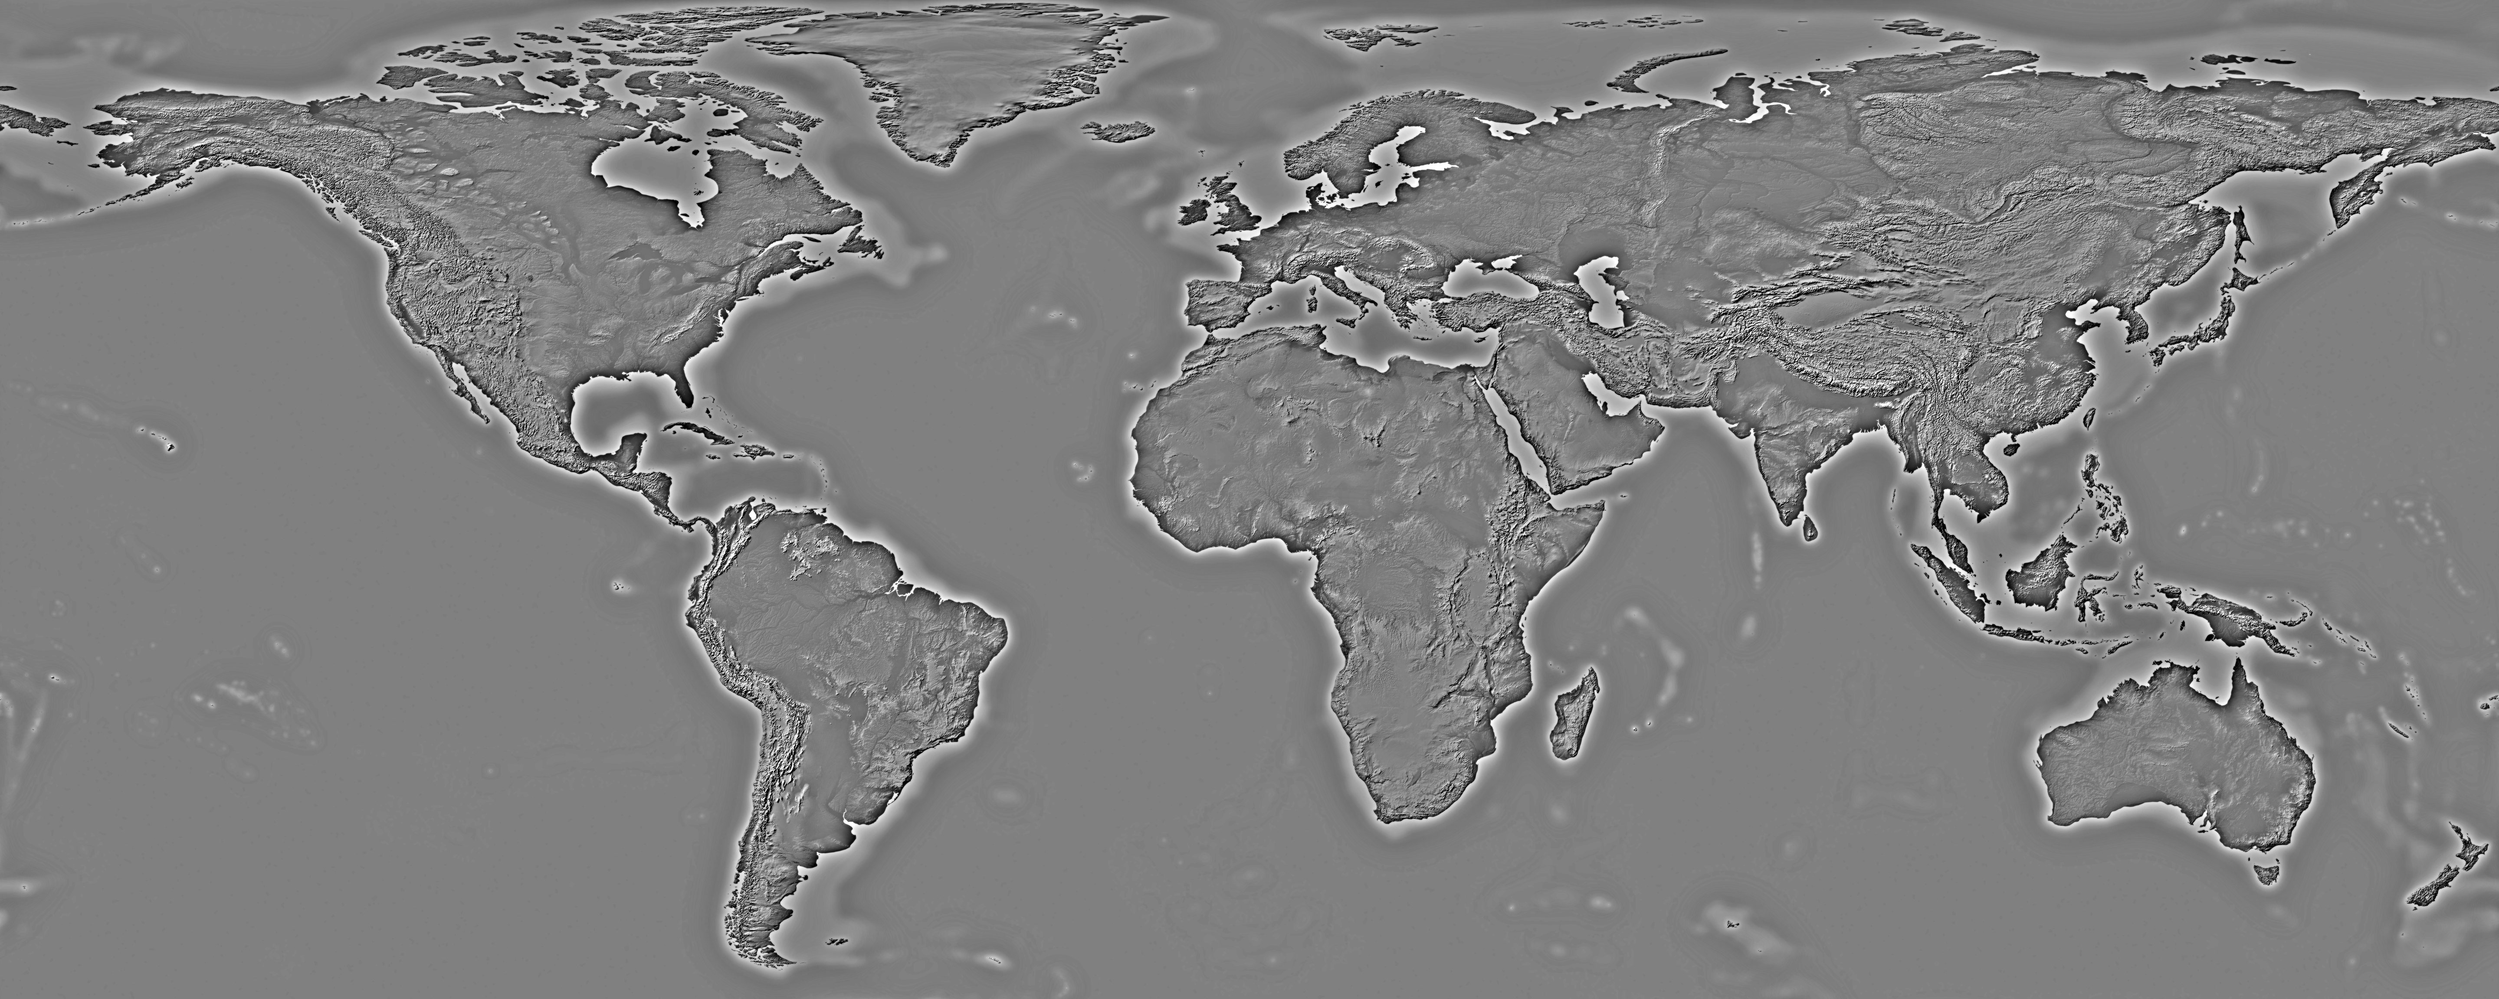
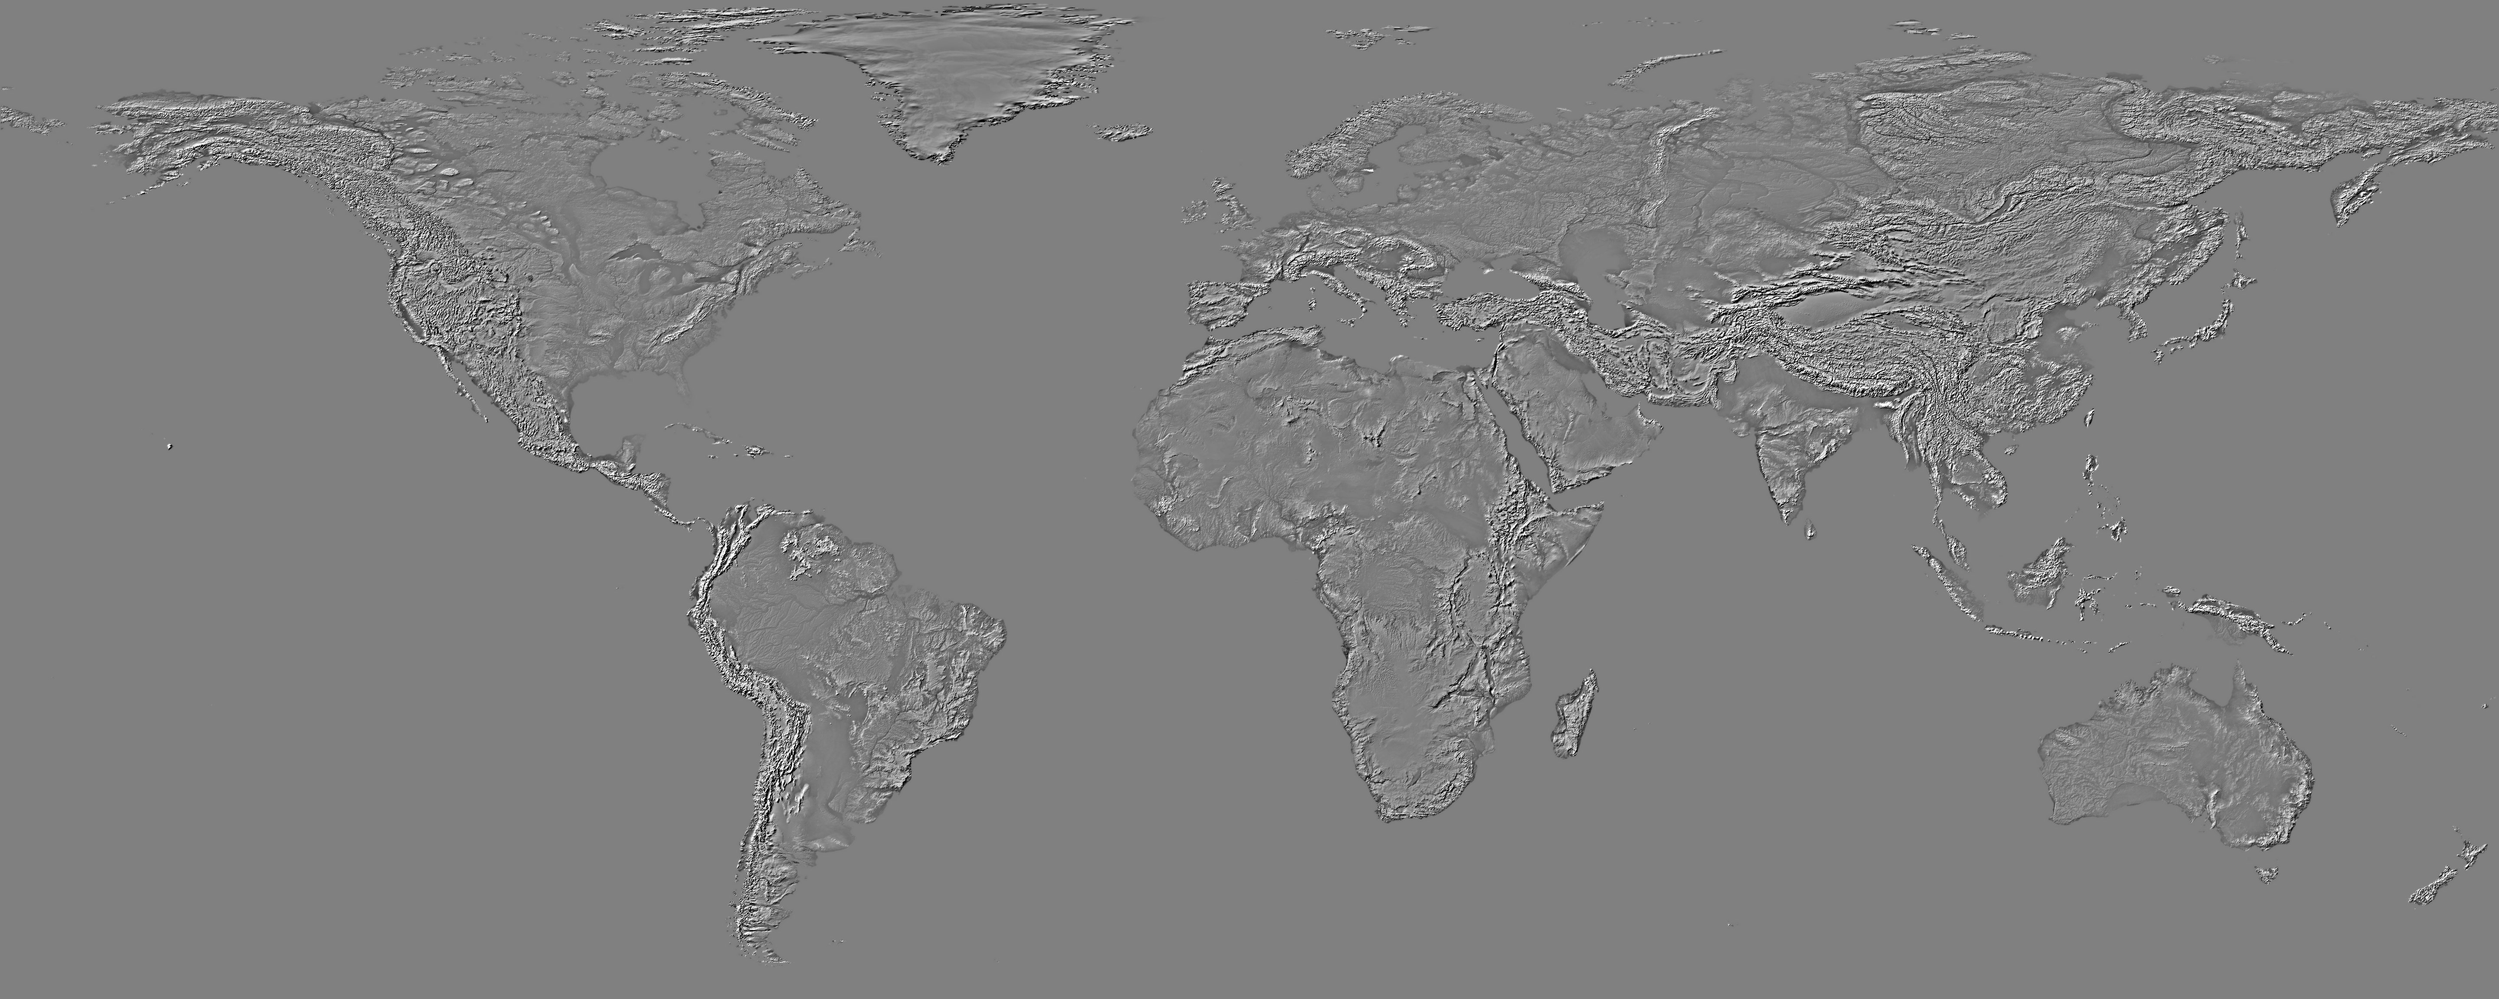
Make the live map match the mockup's 3D clay style
Fix the relief texture never drawing when a view crosses the antimeridian,
rebuild the terrain texture from a real land mask (no coastal streaks), and
add a tileable crumpled-clay detail layer, extruded slabs with side walls,
a lit coastline rim and stronger terrain on raised regions. Fit the
projection and view extents to the mockup, add glassy markers that scale
with the map, and an elliptical vignette for the overview card.

Claude-Session: https://claude.ai/code/session_01VKn5XMieuVs2FJu58rVKFw

diff --git a/map.js b/map.js
@@ -12,17 +12,31 @@
 
   // Miller cylindrical: x is linear in longitude and y depends only on latitude,
   // so the equirectangular relief texture can be reprojected one row at a time.
-  function millerRaw(l, p) { return [l, 1.25 * Math.log(Math.tan(Math.PI / 4 + 0.4 * p))]; }
-  millerRaw.invert = (x, y) => [x, 2.5 * Math.atan(Math.exp(0.8 * y)) - 0.625 * Math.PI];
+  // Generalised Miller: k = 0.8 is classic Miller, k = 1 is Mercator.
+  // `verticalStretch` exaggerates north–south like the reference artwork.
+  const K = cfg.projectionK || 0.8, VS = cfg.verticalStretch || 1;
+  function millerRaw(l, p) { return [l, VS * Math.log(Math.tan(Math.PI / 4 + K * p / 2)) / K]; }
+  millerRaw.invert = (x, y) => [x, (2 / K) * (Math.atan(Math.exp(K * y / VS)) - Math.PI / 4)];
 
   // country -> region lookup
   const regionOf = new Map();
   for (const r of cfg.regions) for (const c of r.countries) regionOf.set(c, r);
   const regionFor = f => regionOf.get(f.id) || regionOf.get(f.properties.name) || null;
 
-  const tex = new Image();
-  const texReady = new Promise(res => { tex.onload = res; tex.onerror = res; });
-  tex.src = cfg.reliefTexture.src;
+  // merged outlines (no internal borders) for the lit coastline rim
+  const geoms = topo.objects.countries.geometries;
+  const geomRegion = g => regionOf.get(g.id) || regionOf.get(g.properties && g.properties.name) || null;
+  const outlineCache = new Map();
+  const outline = keep => {
+    const key = keep.key;
+    if (!outlineCache.has(key)) outlineCache.set(key, topojson.merge(topo, geoms.filter(g => keep(geomRegion(g)))));
+    return outlineCache.get(key);
+  };
+
+  const loadImg = src => { const im = new Image(); const p = new Promise(r => { im.onload = r; im.onerror = r; }); im.src = src; return [im, p]; };
+  const [tex, texP] = loadImg(cfg.reliefTexture.src);
+  const [crumple, crumpleP] = cfg.crumple ? loadImg(cfg.crumple.src) : [null, Promise.resolve()];
+  const texReady = Promise.all([texP, crumpleP]);
 
   const layer = (w, h) => { const c = document.createElement('canvas'); c.width = w; c.height = h; return c; };
 
@@ -97,26 +111,21 @@
       const raisedIds = new Set(v.raised || cfg.regions.filter(r => r.raised).map(r => r.id));
 
       // flat land (everything not raised)
-      const base = this.landLayer(projD, W, H, relief, f => !raisedIds.has(regionFor(f)?.id));
-      ctx.save();
-      ctx.shadowColor = 'rgba(38,58,34,.30)';
-      ctx.shadowBlur = 10 * dpr; ctx.shadowOffsetY = 5 * dpr;
-      ctx.drawImage(base, 0, 0);
-      ctx.restore();
+      const baseKeep = Object.assign(r => !raisedIds.has(r?.id), { key: 'base:' + [...raisedIds].join() });
+      const base = this.landLayer(projD, W, H, relief, f => !raisedIds.has(regionFor(f)?.id), null, outline(baseKeep));
+      this.slab(ctx, base, (v.depth ?? cfg.depth ?? 3) * dpr, 0, 'rgba(38,58,34,.32)', 10 * dpr, 6 * dpr);
 
       // raised regions: deeper drop shadow, soft glow in the region's colour, lifted a few px
       for (const r of cfg.regions) {
         if (!raisedIds.has(r.id)) continue;
         const lift = 4 * dpr;
-        const img = this.landLayer(projD, W, H, relief, f => regionFor(f) === r, r);
+        const img = this.landLayer(projD, W, H, relief, f => regionFor(f) === r, r, outline(Object.assign(x => x === r, { key: r.id })));
         ctx.save();
-        ctx.shadowColor = 'rgba(30,30,30,.38)';
-        ctx.shadowBlur = 18 * dpr; ctx.shadowOffsetY = 12 * dpr;
-        ctx.drawImage(img, 0, -lift);
-        ctx.shadowColor = hexA(r.color, .55);
-        ctx.shadowBlur = 14 * dpr; ctx.shadowOffsetY = 0;
+        ctx.shadowColor = hexA(r.glow || r.color, .5);
+        ctx.shadowBlur = 16 * dpr;
         ctx.drawImage(img, 0, -lift);
         ctx.restore();
+        this.slab(ctx, img, (cfg.raisedDepth ?? 7) * dpr, -lift, 'rgba(25,25,25,.42)', 22 * dpr, 14 * dpr);
       }
 
       // soft fades into the card background
@@ -125,16 +134,39 @@
       ctx.globalCompositeOperation = 'destination-out';
       const edge = (x0, y0, x1, y1, amt) => {
         const g = ctx.createLinearGradient(x0, y0, x1, y1);
-        g.addColorStop(0, 'rgba(0,0,0,.92)'); g.addColorStop(1, 'rgba(0,0,0,0)');
+        g.addColorStop(0, 'rgba(0,0,0,.94)'); g.addColorStop(.45, 'rgba(0,0,0,.6)'); g.addColorStop(1, 'rgba(0,0,0,0)');
         ctx.fillStyle = g; ctx.fillRect(0, 0, W, H);
       };
       if (fade.left) edge(0, 0, W * fade.left, 0);
       if (fade.right) edge(W, 0, W * (1 - fade.right), 0);
       if (fade.top) edge(0, 0, 0, H * fade.top);
       if (fade.bottom) edge(0, H, 0, H * (1 - fade.bottom));
+      if (fade.vignette) {
+        // elliptical fade: fully kept inside `inner`, gone by the edge
+        const { inner = 0.55, cx = 0.5, cy = 0.5 } = fade.vignette;
+        ctx.save();
+        ctx.translate(W * cx, H * cy); ctx.scale(W / 2, H / 2);
+        const g = ctx.createRadialGradient(0, 0, inner, 0, 0, 1.08);
+        g.addColorStop(0, 'rgba(0,0,0,0)'); g.addColorStop(1, 'rgba(0,0,0,1)');
+        ctx.fillStyle = g; ctx.fillRect(-2, -2, 4, 4);
+        ctx.restore();
+      }
       ctx.restore();
 
       this.placeMarkers(proj, v, w, h);
+    }
+
+    // A landmass drawn as a raised slab: drop shadow, darker side wall, lit top
+    slab(ctx, img, depth, lift, shadow, blur, offY) {
+      ctx.save();
+      ctx.shadowColor = shadow; ctx.shadowBlur = blur; ctx.shadowOffsetY = offY;
+      ctx.drawImage(img, 0, lift + depth);
+      ctx.restore();
+      ctx.save();
+      ctx.filter = `brightness(${cfg.wallShade ?? .7}) saturate(1.1)`;
+      for (let d = depth; d > 0; d -= 1) ctx.drawImage(img, 0, lift + d);
+      ctx.restore();
+      ctx.drawImage(img, 0, lift);
     }
 
     // Terrain shading reprojected from the equirectangular texture, one row at a time
@@ -143,20 +175,59 @@
       g.fillStyle = '#808080'; g.fillRect(0, 0, W, H);
       if (!tex.naturalWidth) return c;
       const t = cfg.reliefTexture, ppd = t.pixelsPerDegree;
-      const lonL = proj.invert([0, H / 2])[0], lonR = proj.invert([W, H / 2])[0];
-      const sx = (lonL + 180) * ppd, sw = (lonR - lonL) * ppd;
+      // longitude is linear in x; compute the span directly so it can run past ±180
+      const lonL = (0 - proj.translate()[0]) / proj.scale() / RAD, lonR = lonL + W / proj.scale() / RAD;
       g.imageSmoothingQuality = 'high';
-      for (let y = 0; y < H; y++) {
-        const lat = proj.invert([W / 2, y + 0.5])[1];
-        const sy = (t.latTop - lat) * ppd;
-        if (sy < 0 || sy >= tex.naturalHeight - 1) continue;
-        g.drawImage(tex, sx, sy, sw, 1, 0, y, W, 1);
+      const rows = (img, latTop, p, alpha) => {
+        // clamp the source to the texture and map the destination to match
+        // the texture wraps east–west: split the span into in-texture segments
+        const TW = img.naturalWidth, x0 = (lonL + 180) * p, xw = (lonR - lonL) * p;
+        const segs = [];
+        for (let a = x0; a < x0 + xw - 1e-6;) {
+          const k = Math.floor(a / TW), b = Math.min(x0 + xw, (k + 1) * TW);
+          segs.push([a - k * TW, b - a, (a - x0) / xw * W, (b - a) / xw * W]);
+          a = b;
+        }
+        g.globalAlpha = alpha;
+        // each output row samples the whole band of texture rows it covers (no aliasing)
+        let syTop = (latTop - proj.invert([W / 2, 0])[1]) * p;
+        for (let y = 0; y < H; y++) {
+          const syBot = (latTop - proj.invert([W / 2, y + 1])[1]) * p;
+          const s0 = Math.max(0, syTop), s1 = Math.min(img.naturalHeight, syBot);
+          if (s1 - s0 > 0.01) {
+            const sh = Math.max(1, s1 - s0), sy = Math.min(s0, img.naturalHeight - sh);
+            for (const [sx, sw, dx, dw] of segs) g.drawImage(img, sx, sy, sw, sh, dx, y, dw, 1);
+          }
+          syTop = syBot;
+        }
+      };
+      rows(tex, t.latTop, ppd, 1);
+      // boost the real terrain's contrast around mid-grey
+      if (cfg.terrainContrast && cfg.terrainContrast !== 1) {
+        const copy = layer(W, H); copy.getContext('2d').drawImage(c, 0, 0);
+        g.globalAlpha = 1;
+        g.filter = `contrast(${cfg.terrainContrast})`;
+        g.drawImage(copy, 0, 0);
+        g.filter = 'none';
+      }
+      // stylised "crumpled clay" detail over the real terrain; a pattern pinned to
+      // the projection so it pans/zooms with the map and stays isotropic
+      if (crumple && crumple.naturalWidth && cfg.crumple.strength > 0) {
+        const pat = g.createPattern(crumple, 'repeat');
+        const sc = proj.scale() * RAD / cfg.crumple.pixelsPerDegree * (cfg.crumple.scale || 1);
+        const [tx, ty] = proj.translate();
+        pat.setTransform(new DOMMatrix([sc, 0, 0, sc, tx, ty]));
+        g.globalCompositeOperation = 'overlay';
+        g.fillStyle = pat;
+        let k = cfg.crumple.strength;
+        while (k > 0) { g.globalAlpha = Math.min(1, k); g.fillRect(0, 0, W, H); k -= 1; }
+        g.globalCompositeOperation = 'source-over'; g.globalAlpha = 1;
       }
       return c;
     }
 
     // Coloured countries with terrain blended in, clipped to the land
-    landLayer(proj, W, H, relief, keep, region) {
+    landLayer(proj, W, H, relief, keep, region, rim) {
       const c = layer(W, H), g = c.getContext('2d');
       const path = d3.geoPath(proj, g);
       const feats = countries.filter(keep);
@@ -167,7 +238,7 @@
       }
       // terrain: overlay keeps the hue and adds light/shadow from the relief
       g.globalCompositeOperation = 'overlay';
-      let k = cfg.relief;
+      let k = region ? (region.relief ?? cfg.raisedRelief ?? cfg.relief) : cfg.relief;
       while (k > 0) { g.globalAlpha = Math.min(1, k); g.drawImage(relief, 0, 0); k -= 1; }
       // gentle top-left light across the whole map
       g.globalAlpha = 0.35;
@@ -179,12 +250,24 @@
       g.globalAlpha = 1;
       g.globalCompositeOperation = 'destination-in';
       g.beginPath(); for (const f of feats) path(f); g.fill();
+      // soft light rim along the coast
+      if (rim && cfg.rim) {
+        const dpr = W / this.el.clientWidth;
+        g.globalCompositeOperation = 'source-atop';
+        g.strokeStyle = `rgba(255,255,255,${cfg.rim.opacity})`;
+        g.lineWidth = cfg.rim.width * dpr; g.lineJoin = 'round';
+        g.filter = `blur(${cfg.rim.blur * dpr}px)`;
+        g.beginPath(); path(rim); g.stroke();
+        g.filter = 'none';
+      }
       return c;
     }
 
     placeMarkers(proj, v, w, h) {
       const L = this.markerLayer;
       L.textContent = '';
+      // markers shrink with the map so they stay in proportion on small screens
+      L.style.setProperty('--fit', Math.max(0.5, Math.min(1, w / 1100)).toFixed(3));
       if (v.markers !== false) {
         for (const m of cfg.markers) {
           const [x, y] = proj([m.lon, m.lat]);

diff --git a/data/map-config.js b/data/map-config.js
@@ -5,46 +5,61 @@
  */
 window.MAP_CONFIG = {
   // Land that isn't in a region
-  baseColor: '#64a556',
+  baseColor: '#7aaa5e',
+  // Projection: generalised Miller (0.8 = Miller, 1 = Mercator) with a north–south stretch
+  projectionK: 0.8,
+  verticalStretch: 1.13,
   // Strength of the terrain shading (0 = flat colour, 1 = default, 2 = very rough)
-  relief: 2.4,
+  relief: 1.25,
+  // Terrain strength on raised regions (a region can override with its own `relief`)
+  raisedRelief: 2.1,
+  // Stylised crumpled-clay detail over the real terrain (0 = off)
+  crumple: { src: 'assets/crumple.jpg', strength: 0.6, pixelsPerDegree: 8, scale: 2.0 },
+  // Extra contrast for the real terrain before the stylised detail goes on
+  terrainContrast: 1.6,
+  // Slab thickness in px for ordinary land and for raised regions
+  depth: 2,
+  raisedDepth: 5,
+  // Side-wall darkness (1 = same as top) and the lit coastline rim
+  wallShade: 0.62,
+  rim: { width: 3, blur: 1.5, opacity: 0.55 },
   // Shaded relief texture: equirectangular, cropped to latTop..latBottom
   reliefTexture: { src: 'assets/relief.jpg', latTop: 84, latBottom: -60, pixelsPerDegree: 16 },
 
   regions: [
     {
-      id: 'europe', label: 'Europe', risk: 'Extreme Heat', color: '#b8a02c', raised: true,
+      id: 'europe', label: 'Europe', risk: 'Extreme Heat', color: '#b9a43a', raised: true,
       countries: ['250', '276', '616', '380', '724', '620', '756', '040', '203', '703', '348', '056', '528', '442',
         '208', '705', '191', '070', '688', '499', '008', '807', '300', '100', '642', '498', '440', '428', '233',
         '112', '804', 'Kosovo']
     },
     {
-      id: 'africa', label: 'Africa', risk: 'Water Stress', color: '#36c2b4', raised: true,
+      id: 'africa', label: 'Africa', risk: 'Water Stress', color: '#38c4b0', raised: true,
       countries: ['012', '024', '204', '072', '854', '108', '120', '132', '140', '148', '174', '178', '180', '384',
         '262', '818', '226', '232', '748', '231', '266', '270', '288', '324', '624', '404', '426', '430', '434',
         '450', '454', '466', '478', '480', '504', '508', '516', '562', '566', '646', '678', '686', '690', '694',
         '706', '710', '728', '729', '834', '768', '788', '800', '894', '716', '732', 'Somaliland']
     },
     {
-      id: 'eastAsia', label: 'East Asia', risk: 'Flood', color: '#e45a4b', raised: true,
-      countries: ['156', '496', '104', '418', '704', '764', '116', '458', '064', '524', '050', '158']
+      id: 'eastAsia', label: 'Central & East Asia', risk: 'Flood', color: '#f58f78', raised: true,
+      countries: ['156', '496', '398', '860', '795', '417', '762', '104', '418', '704', '764', '116', '458', '064', '524', '158']
     }
   ],
 
   // Numbered asset markers
   markers: [
-    { n: 1, lat: 50.5, lon: 11, region: 'europe' },
-    { n: 2, lat: 60, lon: 62 },
-    { n: 3, lat: 64, lon: 140 },
-    { n: 4, lat: 25, lon: 45 },
-    { n: 5, lat: 17, lon: 13, region: 'africa' },
-    { n: 6, lat: 33, lon: 101, region: 'eastAsia' }
+    { n: 1, lat: 50.5, lon: 15, region: 'europe' },
+    { n: 2, lat: 62, lon: 95 },
+    { n: 3, lat: 64, lon: 150 },
+    { n: 4, lat: 24, lon: 45 },
+    { n: 5, lat: 22, lon: 27, region: 'africa' },
+    { n: 6, lat: 38, lon: 104, region: 'eastAsia' }
   ],
 
   // Named views: longitude span fitted to the width, centred on `lat`
   views: {
-    overview: { lon: [-112, 162], lat: 36, fade: { left: 0.30, right: 0.07, top: 0.10, bottom: 0.16 } },
-    world:    { lon: [-62, 168], lat: 40, fade: { left: 0.30 } },
+    overview: { lon: [-121, 210], lat: 31, fade: { left: 0.3, bottom: 0.36, vignette: { inner: 0.7, cx: 0.52, cy: 0.42 } } },
+    world:    { lon: [-93.8, 222.7], lat: 46, fade: { left: 0.5, top: 0.06 } },
     worldNarrow: { lon: [-22, 150], lat: 32, fade: { left: 0.12 } },
     mini:     { lon: [-130, 165], lat: 30, fade: { top: 0.35 }, markers: false, raised: ['eastAsia'], pulse: { lat: 38, lon: 98 } }
   }

diff --git a/styles.css b/styles.css
@@ -340,9 +340,11 @@ img{display:block;max-width:100%}
 .geo.dragging{cursor:grabbing}
 .geo-markers{position:absolute;inset:0;pointer-events:none}
 .geo-marker{position:absolute;left:0;top:0}
-.geo-marker i{position:absolute;left:-15px;top:-15px;width:30px;height:30px;border-radius:50%;background:rgba(255,255,255,.32);box-shadow:0 0 14px rgba(255,255,255,.55)}
-.geo-marker i::after{content:"";position:absolute;inset:9px;border-radius:50%;background:#fff;box-shadow:0 1px 3px rgba(0,0,0,.25)}
-.geo-marker b{position:absolute;left:4px;top:-34px;width:24px;height:24px;border-radius:50%;background:rgba(255,255,255,.28);color:#fff;font-weight:500;font-size:14px;display:flex;align-items:center;justify-content:center;text-shadow:0 1px 2px rgba(0,0,0,.25)}
+.geo-marker{--s:var(--fit,1)}
+.mapbox .geo-marker{--s:calc(var(--fit,1) * .62 / .69)}
+.geo-marker i{position:absolute;left:calc(-22px*var(--s));top:calc(-22px*var(--s));width:calc(44px*var(--s));height:calc(44px*var(--s));border-radius:50%;background:rgba(255,255,255,.34);-webkit-backdrop-filter:blur(3px);backdrop-filter:blur(3px);box-shadow:0 4px 14px rgba(0,0,0,.12)}
+.geo-marker i::after{content:"";position:absolute;inset:calc(15px*var(--s));border-radius:50%;background:#fff;box-shadow:0 1px 3px rgba(0,0,0,.25)}
+.geo-marker b{position:absolute;left:calc(4px*var(--s));top:calc(-40px*var(--s));width:calc(32px*var(--s));height:calc(32px*var(--s));border-radius:50%;background:rgba(255,255,255,.3);-webkit-backdrop-filter:blur(3px);backdrop-filter:blur(3px);color:#fff;font-weight:500;font-size:calc(17px*var(--s));display:flex;align-items:center;justify-content:center;text-shadow:0 1px 2px rgba(0,0,0,.2)}
 .minimap .geo-marker{display:none}
 .geo-pulse{position:absolute;left:0;top:0}
 .geo-pulse::before,.geo-pulse::after{content:"";position:absolute;left:-20px;top:-20px;width:40px;height:40px;border-radius:50%;background:radial-gradient(circle,#fff 0 4px,#ff5a6e 5px 7px,rgba(255,120,140,.45) 8px,rgba(255,200,210,.15) 70%,transparent 72%)}

diff --git a/README.md b/README.md
@@ -6,7 +6,7 @@ Recreation of the Juice Lab analytics dashboard: the app screen only, fully resp
 
 | What | Where |
 | --- | --- |
-| Map colours, regions, raised regions, markers, terrain strength, view extents | `data/map-config.js` |
+| Map colours, regions, raised regions, markers, terrain/texture strength, slab depth, projection, view extents | `data/map-config.js` |
 | Chart data (KPI sparklines, risk exposure, trend series, distribution, score) | `data/dashboard-data.js` |
 | Chart colours per risk level / type | top of `charts.js` (`LEVEL`, `TYPE`) |
 
@@ -22,6 +22,7 @@ Regions list countries by ISO 3166-1 numeric id (as used by world-atlas) or by n
 
 - `vendor/` — D3 7.9.0 and topojson-client 3.1.0 (from npm, with licences).
 - `data/countries-50m.js` — world-atlas 2.0.2 countries (Natural Earth, public domain) wrapped as a script so the page works from `file://`.
-- `assets/relief.jpg` — terrain shading derived from Natural Earth shaded relief (public domain): the hypsometric tint is removed, leaving only light and shadow so colours can come from code.
+- `assets/relief.jpg` — terrain shading derived from Natural Earth shaded relief (public domain): the colour tint and ocean are removed, leaving only land light and shadow so colours can come from code.
+- `assets/crumple.jpg` — a generated, tileable "crumpled clay" texture layered over the real terrain for the stylised 3D look (strength set in the config).
 - `assets/` also holds the avatar, globe icon and insight orb cut from the mockups.
 - `mockups/` — the reference shots.
